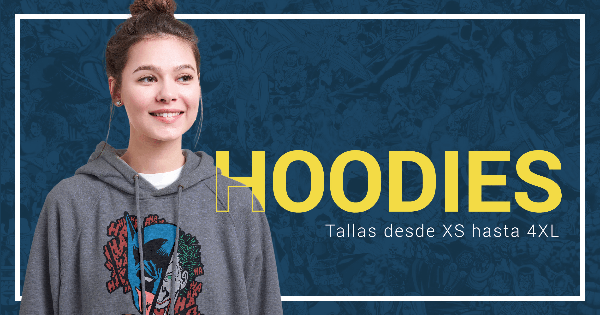
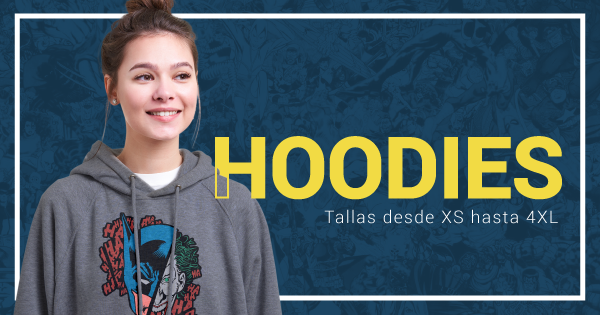
Promociones
1. Se corrigió la imagen del banner haciendola mas pequeña verticalmente y se cambió el texto a nuestro catálogo
2.se agregó la ímagen de las promociones
3. todas las imagenes se cambiaron a unas en mejor definición ya que las que estaban estaban pixeleadas, en especial la imagen en donde muestra el reloj, carrito ect...
4. Se agrego la imagen de las promociones en el apartado de promociones y de igualmanera articulos recomendados para la promoción
5. se hizo un css aparte para los estilos de las promociones

Changed region(s): [[0.0, 0.0, 0.99, 1.0], [0.0, 0.5714, 0.03, 0.6]]

diff --git a/src/main/resources/templates/promociones/inicio.html b/src/main/resources/templates/promociones/inicio.html
@@ -11,6 +11,8 @@ Click nbfs://nbhost/SystemFileSystem/Templates/Other/html.html to edit this temp
         <!-- CSS de header y footer de la pagina -->
         <link rel="stylesheet" href="/css/header.css"/>
         <link rel="stylesheet" href="/css/footer.css"/>
+        <!-- css de promociones -->
+        <link rel="stylesheet" href="css/promociones.css"/>
         <!-- Bootstrap -->
         <link rel="stylesheet" th:href="@{/webjars/bootstrap/css/bootstrap.min.css}">
         <link rel="stylesheet" th:href="@{/webjars/font-awesome/css/all.css}">
@@ -20,7 +22,126 @@ Click nbfs://nbhost/SystemFileSystem/Templates/Other/html.html to edit this temp
     </head>
     <body>
         <header th:replace="~{layout/header :: header}"></header>
-        <div>AQUI VA PROMOCIONES!!!</div>
+        
+        <div class="promos">
+            <a> <img src="../../static/ImgWeb/Promos.png" alt=""/></a>
+            
+        </div>
+        
+        
+        <div class="novedades">
+            <h2 class="novedades-titulo">― Sugerencias para la promo ―</h2>
+
+            <div id="novedades-carrusel" class="carousel slide w-100" data-bs-ride="true">
+                <div class="carousel-inner">
+                    <div class="carousel-item active ">
+                        <table class="table">
+                            <thead>
+                                <tr>
+                                    <th scope="col">
+                                        <figure class="figure">
+                                        <img src="ImgWeb/productoPlaceHolder1.png" class="figure-img img-fluid rounded w-100" alt="...">
+                                            <figcaption class="figure-caption text-center">₡12000</figcaption>
+                                        </figure>
+                                    </th>
+                                    <th scope="col">
+                                        <figure class="figure">
+                                        <img src="ImgWeb/productoPlaceHolder2.png" class="figure-img img-fluid rounded w-100" alt="...">
+                                            <figcaption class="figure-caption text-center">₡20500</figcaption>
+                                        </figure>
+                                    </th>
+                                    <th scope="col">
+                                        <figure class="figure">
+                                        <img src="ImgWeb/productoPlaceHolder3.png" class="figure-img img-fluid rounded w-100" alt="...">
+                                            <figcaption class="figure-caption text-center">₡18500</figcaption>
+                                        </figure>
+                                    </th>
+                                    <th scope="col">
+                                        <figure class="figure">
+                                        <img src="ImgWeb/productoPlaceHolder4.png" class="figure-img img-fluid rounded w-100" alt="...">
+                                            <figcaption class="figure-caption text-center">₡12000</figcaption>
+                                        </figure>
+                                    </th>
+                                </tr>
+                            </thead>
+                        </table>     
+                    </div>
+                    <div class="carousel-item">
+                        <table class="table">
+                            <thead>
+                                <tr>
+                                    <th scope="col">
+                                        <figure class="figure">
+                                        <img src="ImgWeb/productoPlaceHolder1.png" class="figure-img img-fluid rounded w-100" alt="...">
+                                            <figcaption class="figure-caption text-center">₡12000</figcaption>
+                                        </figure>
+                                    </th>
+                                    <th scope="col">
+                                        <figure class="figure">
+                                        <img src="ImgWeb/productoPlaceHolder2.png" class="figure-img img-fluid rounded w-100" alt="...">
+                                            <figcaption class="figure-caption text-center">₡20500</figcaption>
+                                        </figure>
+                                    </th>
+                                    <th scope="col">
+                                        <figure class="figure">
+                                        <img src="ImgWeb/productoPlaceHolder3.png" class="figure-img img-fluid rounded w-100" alt="...">
+                                            <figcaption class="figure-caption text-center">₡18500</figcaption>
+                                        </figure>
+                                    </th>
+                                    <th scope="col">
+                                        <figure class="figure">
+                                        <img src="ImgWeb/productoPlaceHolder4.png" class="figure-img img-fluid rounded w-100" alt="...">
+                                            <figcaption class="figure-caption text-center">₡12000</figcaption>
+                                        </figure>
+                                    </th>
+                                </tr>
+                            </thead>
+                        </table>
+                    </div>
+                    <div class="carousel-item">
+                        <table class="table">
+                            <thead>
+                                <tr>
+                                    <th scope="col">
+                                        <figure class="figure">
+                                        <img src="ImgWeb/productoPlaceHolder1.png" class="figure-img img-fluid rounded w-100" alt="...">
+                                            <figcaption class="figure-caption text-center">₡12000</figcaption>
+                                        </figure>
+                                    </th>
+                                    <th scope="col">
+                                        <figure class="figure">
+                                        <img src="ImgWeb/productoPlaceHolder2.png" class="figure-img img-fluid rounded w-100" alt="...">
+                                            <figcaption class="figure-caption text-center">₡20500</figcaption>
+                                        </figure>
+                                    </th>
+                                    <th scope="col">
+                                        <figure class="figure">
+                                        <img src="ImgWeb/productoPlaceHolder3.png" class="figure-img img-fluid rounded w-100" alt="...">
+                                            <figcaption class="figure-caption text-center">₡18500</figcaption>
+                                        </figure>
+                                    </th>
+                                    <th scope="col">
+                                        <figure class="figure">
+                                        <img src="ImgWeb/productoPlaceHolder4.png" class="figure-img img-fluid rounded w-100" alt="...">
+                                            <figcaption class="figure-caption text-center">₡12000</figcaption>
+                                        </figure>
+                                    </th>
+                                </tr>
+                            </thead>
+                        </table>
+                    </div>
+                </div>
+                <button class="carousel-control-prev" type="button" data-bs-target="#novedades-carrusel" data-bs-slide="prev">
+                    <span class="carousel-control-prev-icon" aria-hidden="true"></span>
+                    <span class="visually-hidden">Previous</span>
+                </button>
+                <button class="carousel-control-next" type="button" data-bs-target="#novedades-carrusel" data-bs-slide="next">
+                    <span class="carousel-control-next-icon" aria-hidden="true"></span>
+                    <span class="visually-hidden">Next</span>
+                </button>
+            </div>
+        
+        
         <footer th:replace="~{layout/footer :: footer}"></footer>
     </body>
 </html>

diff --git a/src/main/resources/static/css/promociones.css b/src/main/resources/static/css/promociones.css
@@ -1,0 +1,66 @@
+@import url('https://fonts.googleapis.com/css2?family=Roboto:ital,wght@0,300;0,700;1,300;1,700&display=swap');
+:root {
+    /* Colores: */
+    --azuloscuro: #153657;
+    --azulprincipal: #23588E;
+    --amarillologo: #F3DB43;
+    --gris-70-: #707070;
+    --blanco-20-: #F5F5F5;
+    --blanco: #FFFFFF;
+    
+    /*Textos*/
+    --font-family-roboto: Roboto;
+}
+
+*{
+  font-family:Roboto;
+  margin:0;
+}
+
+/*---------------------PROMOS---------------------*/
+.promos {
+  /*position: relative;*/
+  width: 100%;
+  padding-top: 2.5%;
+  padding-bottom: 2.5%;
+}
+
+.promos img {
+  width: 100%;
+  height: auto;
+
+}
+
+/*---------------------NOVEDAES---------------------*/
+.novedades{
+    width:70%;
+    text-align: center;
+    padding-top: 5%;
+    padding-bottom: 5%;
+    margin-left: 15%;
+}
+.novedades .novedades-titulo{
+    font-size: 30px;
+    color:#777777;
+}
+.novedades .carousel-control-next{
+      bottom: 15%;
+      right: -5%
+}
+.novedades .carousel-control-prev{
+      bottom: 15%;
+      left: -5%
+}
+.novedades .btn {
+    color:white;
+    background-color: #285c8c;
+    font-size: 16px;
+    padding: 12px 24px;
+    border: none;
+    cursor: pointer;
+    border-radius: 5px;
+    
+}
+.novedades .btn:hover {
+    background-color:#006699;
+}

diff --git a/src/main/resources/templates/index.html b/src/main/resources/templates/index.html
@@ -21,7 +21,7 @@
         <div class="banner">
             <a th:href="@{/articulo/nuevaColeccion}"><img src="ImgWeb/Banner.png" alt="Banner"></a>
         </div>
-
+         
         <div class="search">
             <form action="/">
                 <input type="text" placeholder="Buscar" name="search">
@@ -293,6 +293,7 @@
                     <span class="visually-hidden">Next</span>
                 </button>
             </div>
+            <a><img src="../../static/ImgWeb/Banner.png" alt=""/></a>
 
             <button class="btn">Ver más</button>
         </div>

diff --git a/src/main/resources/static/css/index.css b/src/main/resources/static/css/index.css
@@ -34,8 +34,8 @@
 .search{
   width: 100%;
   text-align: center;
-  padding-top: 2.5%;
-  padding-bottom: 2.5%;
+  padding-top: 0.5%;
+  padding-bottom: 0.5%;
 }
 .search input[type=text] {
   font-size: 20px;
@@ -173,8 +173,8 @@
 .servicios{
     color:#777777;
     text-align: center;
-    padding-top: 2.5%;
-    padding-bottom: 2.5%;
+    padding-top: 1.5%;
+    padding-bottom: 1.5%;
 }
 .servicios .servicios-img{
     width: 100%;
